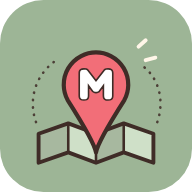
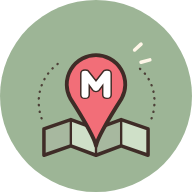
V1.9.14 CIUDADES: lista de ciudades en Ahora, tiempo de caminata creíble, poses sin repetir e ícono redondo
Claude-Session: https://claude.ai/code/session_018s9NCTuMNe4yPyob3aS4qC

diff --git a/index.html b/index.html
@@ -112,7 +112,7 @@
 <script>if(window.__MOPPI_NO_SPLASH__===true){var s=document.getElementById('moppiSplash');if(s)s.remove()}</script>
 <div class="app" id="app">
   <header class="topbar">
-    <div class="brand"><div class="brand-mark" aria-hidden="true"><svg xmlns="http://www.w3.org/2000/svg" viewBox="0 0 512 512" focusable="false"><rect width="512" height="512" rx="116" fill="#9DB596"/><g transform="translate(256 262) scale(.86) translate(-256 -256)"><g><g fill="none" stroke="#3F2C27" stroke-width="8" stroke-linecap="round" stroke-dasharray="1 22" opacity=".85"><path d="M70 330C46 262 66 186 130 140"/><path d="M446 330C470 262 450 186 392 150"/></g><polygon points="78,366 170,334 170,424 78,456" fill="#A7B89F"/><polygon points="170,334 256,366 256,456 170,424" fill="#CFE0C8"/><polygon points="256,366 342,334 342,424 256,456" fill="#A7B89F"/><polygon points="342,334 434,366 434,456 342,424" fill="#CFE0C8"/><polygon points="78,366 170,334 256,366 342,334 434,366 434,456 342,424 256,456 170,424 78,456" fill="none" stroke="#3F2C27" stroke-width="12" stroke-linejoin="round"/><path d="M170 334V424M256 366V456M342 334V424" stroke="#3F2C27" stroke-width="8" stroke-linecap="round" fill="none"/><path d="M168.1 261.6 A100 100 0 1 1 343.9 261.6 Q262 390 256 424 Q250 390 168.1 261.6Z" fill="#F26E78" stroke="#3F2C27" stroke-width="13" stroke-linejoin="round"/><path d="M218.34571428571428 259.0514285714286Q212.56285714285713 259.0514285714286 210.06571428571428 257.34285714285716Q207.56857142857143 255.6342857142857 207.04285714285714 252.87428571428572Q206.51714285714286 250.11428571428573 206.51714285714286 246.96V179.14285714285717Q206.51714285714286 176.25142857142856 207.04285714285714 173.55714285714285Q207.56857142857143 170.86285714285714 210.06571428571428 169.0885714285714Q212.56285714285713 167.31428571428572 218.60857142857142 167.31428571428572Q222.68285714285713 167.31428571428572 224.5885714285714 167.84Q226.4942857142857 168.3657142857143 227.3485714285714 169.15428571428572Q228.20285714285714 169.94285714285715 229.12285714285713 170.99428571428572L255.9342857142857 205.42857142857144L282.6142857142857 171.1257142857143Q283.92857142857144 169.68 285.0457142857143 168.89142857142858Q286.16285714285715 168.10285714285715 288.06857142857143 167.70857142857142Q289.9742857142857 167.31428571428572 293.5228571428571 167.31428571428572Q299.4371428571428 167.31428571428572 301.9342857142857 169.0885714285714Q304.43142857142857 170.86285714285714 304.95714285714286 173.62285714285713Q305.48285714285714 176.38285714285715 305.48285714285714 179.40571428571428V247.22285714285715Q305.48285714285714 250.11428571428573 304.95714285714286 252.87428571428572Q304.43142857142857 255.6342857142857 301.9342857142857 257.34285714285716Q299.4371428571428 259.0514285714286 293.39142857142855 259.0514285714286Q287.47714285714284 259.0514285714286 284.98 257.27714285714285Q282.48285714285714 255.50285714285715 281.95714285714286 252.67714285714288Q281.43142857142857 249.85142857142858 281.43142857142857 246.96V209.6342857142857L266.0542857142857 230.53142857142856L264.47714285714284 232.50285714285715Q263.42571428571426 233.81714285714287 261.4542857142857 234.86857142857144Q259.48285714285714 235.92000000000002 255.9342857142857 235.92000000000002Q252.38571428571427 235.92000000000002 250.3485714285714 234.86857142857144Q248.31142857142856 233.81714285714287 247.26 232.56857142857143Q246.20857142857142 231.32 245.68285714285713 230.53142857142856L230.43714285714285 209.7657142857143V247.22285714285715Q230.43714285714285 250.11428571428573 229.91142857142856 252.87428571428572Q229.38571428571427 255.6342857142857 226.88857142857142 257.34285714285716Q224.39142857142855 259.0514285714286 218.34571428571428 259.0514285714286Z" fill="#fff" stroke="#3F2C27" stroke-width="10" stroke-linejoin="round" paint-order="stroke"/><g stroke="#FFF6E8" stroke-width="12" stroke-linecap="round"><path d="M388 96l22 -20"/><path d="M410 138l30 -8"/></g></g></g></svg></div><div class="brand-copy"><strong id="brandTitle">Moppi</strong><span id="headerContext">Preparando el día</span></div></div>
+    <div class="brand"><div class="brand-mark" aria-hidden="true"><svg xmlns="http://www.w3.org/2000/svg" viewBox="0 0 512 512" focusable="false"><rect width="512" height="512" rx="256" fill="#9DB596"/><g transform="translate(256 258) scale(.78) translate(-256 -256)"><g><g fill="none" stroke="#3F2C27" stroke-width="8" stroke-linecap="round" stroke-dasharray="1 22" opacity=".85"><path d="M70 330C46 262 66 186 130 140"/><path d="M446 330C470 262 450 186 392 150"/></g><polygon points="78,366 170,334 170,424 78,456" fill="#A7B89F"/><polygon points="170,334 256,366 256,456 170,424" fill="#CFE0C8"/><polygon points="256,366 342,334 342,424 256,456" fill="#A7B89F"/><polygon points="342,334 434,366 434,456 342,424" fill="#CFE0C8"/><polygon points="78,366 170,334 256,366 342,334 434,366 434,456 342,424 256,456 170,424 78,456" fill="none" stroke="#3F2C27" stroke-width="12" stroke-linejoin="round"/><path d="M170 334V424M256 366V456M342 334V424" stroke="#3F2C27" stroke-width="8" stroke-linecap="round" fill="none"/><path d="M168.1 261.6 A100 100 0 1 1 343.9 261.6 Q262 390 256 424 Q250 390 168.1 261.6Z" fill="#F26E78" stroke="#3F2C27" stroke-width="13" stroke-linejoin="round"/><path d="M218.34571428571428 259.0514285714286Q212.56285714285713 259.0514285714286 210.06571428571428 257.34285714285716Q207.56857142857143 255.6342857142857 207.04285714285714 252.87428571428572Q206.51714285714286 250.11428571428573 206.51714285714286 246.96V179.14285714285717Q206.51714285714286 176.25142857142856 207.04285714285714 173.55714285714285Q207.56857142857143 170.86285714285714 210.06571428571428 169.0885714285714Q212.56285714285713 167.31428571428572 218.60857142857142 167.31428571428572Q222.68285714285713 167.31428571428572 224.5885714285714 167.84Q226.4942857142857 168.3657142857143 227.3485714285714 169.15428571428572Q228.20285714285714 169.94285714285715 229.12285714285713 170.99428571428572L255.9342857142857 205.42857142857144L282.6142857142857 171.1257142857143Q283.92857142857144 169.68 285.0457142857143 168.89142857142858Q286.16285714285715 168.10285714285715 288.06857142857143 167.70857142857142Q289.9742857142857 167.31428571428572 293.5228571428571 167.31428571428572Q299.4371428571428 167.31428571428572 301.9342857142857 169.0885714285714Q304.43142857142857 170.86285714285714 304.95714285714286 173.62285714285713Q305.48285714285714 176.38285714285715 305.48285714285714 179.40571428571428V247.22285714285715Q305.48285714285714 250.11428571428573 304.95714285714286 252.87428571428572Q304.43142857142857 255.6342857142857 301.9342857142857 257.34285714285716Q299.4371428571428 259.0514285714286 293.39142857142855 259.0514285714286Q287.47714285714284 259.0514285714286 284.98 257.27714285714285Q282.48285714285714 255.50285714285715 281.95714285714286 252.67714285714288Q281.43142857142857 249.85142857142858 281.43142857142857 246.96V209.6342857142857L266.0542857142857 230.53142857142856L264.47714285714284 232.50285714285715Q263.42571428571426 233.81714285714287 261.4542857142857 234.86857142857144Q259.48285714285714 235.92000000000002 255.9342857142857 235.92000000000002Q252.38571428571427 235.92000000000002 250.3485714285714 234.86857142857144Q248.31142857142856 233.81714285714287 247.26 232.56857142857143Q246.20857142857142 231.32 245.68285714285713 230.53142857142856L230.43714285714285 209.7657142857143V247.22285714285715Q230.43714285714285 250.11428571428573 229.91142857142856 252.87428571428572Q229.38571428571427 255.6342857142857 226.88857142857142 257.34285714285716Q224.39142857142855 259.0514285714286 218.34571428571428 259.0514285714286Z" fill="#fff" stroke="#3F2C27" stroke-width="10" stroke-linejoin="round" paint-order="stroke"/><g stroke="#FFF6E8" stroke-width="12" stroke-linecap="round"><path d="M388 96l22 -20"/><path d="M410 138l30 -8"/></g></g></g></svg></div><div class="brand-copy"><strong id="brandTitle">Moppi</strong><span id="headerContext">Preparando el día</span></div></div>
     <button class="round-button" id="quickHome" aria-label="Volver al alojamiento"><svg viewBox="0 0 24 24" fill="none" stroke="currentColor" stroke-width="2"><path d="m3 11 9-8 9 8"/><path d="M5 10v10h14V10M9 20v-6h6v6"/></svg></button>
   </header>
 
@@ -120,6 +120,7 @@
     <div class="embed-notice" id="embedNotice" role="note" hidden><strong>Estás en una vista previa.</strong> Aquí puede que no se guarden tus cambios ni se descarguen copias. Para usar Moppi, descarga el archivo y ábrelo con Chrome desde Descargas.</div>
     <section class="view active" data-view="today" aria-labelledby="todayTitle">
       <div class="hero"><div class="eyebrow" id="todayCountry">Italia · Viaje 2027</div><div class="hero-row"><div><h1 id="todayTitle">Venezia</h1><p class="lede" id="todaySummary">Lo importante de hoy, sin convertir el viaje en una carrera.</p></div><div class="date-tile"><strong id="todayDay">15</strong><span id="todayMonth">sep</span></div></div></div>
+      <div class="city-strip-wrap" id="cityStripWrap" hidden><div class="strip-title">Tu viaje · ciudades</div><div class="day-strip city-strip" id="cityStrip" aria-label="Ciudades del viaje"></div></div>
       <div class="day-strip" id="dayStrip" aria-label="Días de la ciudad"></div>
       <div class="context-strip" id="contextStrip"></div>
       <article class="now-card" id="nowCard"></article>
@@ -358,10 +359,10 @@ const CatalogStore={dbName:'moppi',storeName:'catalogs',
   async all(){return unique([...this.embedded(),...await this.stored()],item=>item.id)},
   async importCatalogs(items){const valid=list(items).filter(item=>this.valid(item));if(!valid.length)throw new ProviderError('INVALID_CATALOG','El archivo no trae horarios oficiales válidos.');let db;try{db=await this.open()}catch{throw new ProviderError('STORAGE','Este navegador no permite guardar horarios oficiales.')}await new Promise((resolve,reject)=>{const tx=db.transaction(this.storeName,'readwrite');for(const item of valid)tx.objectStore(this.storeName).put(JSON.parse(JSON.stringify(item)));tx.oncomplete=resolve;tx.onerror=()=>reject(tx.error);tx.onabort=()=>reject(tx.error||new Error('IDB'))}).catch(()=>{throw new ProviderError('STORAGE','No hubo lugar para guardar los horarios oficiales en este teléfono.')});return{count:valid.length,operators:unique(valid.map(item=>clean(item.operator)||clean(item.label)||'operador'))}}};
 const AppConfig=Object.freeze({
-  version:'V1.9.13_MARCA',get timeZone(){return RuntimeZone.value||deviceTimeZone()},locale:'es-UY',tripStorageKey:'moppi.trips.v1',trip:{departureMarginMinutes:20},serviceDate:'2026-09-13',
+  version:'V1.9.14_CIUDADES',get timeZone(){return RuntimeZone.value||deviceTimeZone()},locale:'es-UY',tripStorageKey:'moppi.trips.v1',trip:{departureMarginMinutes:20},serviceDate:'2026-09-13',
   mapillary:{get clientToken(){return KeyStore.get('mapillary')},searchRadiusMeters:35,maxCorridorMeters:25,maxCurrentMeters:220,maxCurrentNoGeometryMeters:60,limit:60,maxImages:5,minSpacingMeters:10,queryTimeoutMs:9000,imageTimeoutMs:15000},
   tripgo:{get apiKey(){return KeyStore.get('tripgo')},attribution:'Powered by TripGo'},providerDates:{maxFutureDays:28},
-  discovery:{originRadiusKm:.65,destinationRadiusKm:.8,maxOriginStops:30,maxDestinationStops:30,horizonMinutes:120,walkingMetersPerSecond:1.15,walkDetourFactor:1.25,boardingBufferSeconds:35,walkMatrixBatchSize:25,requestTimeoutMs:14000},
+  discovery:{originRadiusKm:.65,destinationRadiusKm:.8,maxOriginStops:30,maxDestinationStops:30,horizonMinutes:120,walkingMetersPerSecond:1.15,implausibleWalkMetersPerSecond:2,implausibleWalkMinMeters:400,walkDetourFactor:1.25,boardingBufferSeconds:35,walkMatrixBatchSize:25,requestTimeoutMs:14000},
   variants:{significantWalkMeters:250,significantFinalWalkMeters:180,significantTimeSeconds:600,maxTradeoffs:3,weights:{doorTime:.40,totalWalk:.30,finalWalk:.24,physicalEffort:.06},verifiedApproachBonus:.18,realGeometryBonus:.04,estimatedWalkPenalty:.06},
   comparison:{durationTieSeconds:30,walkTieMeters:25,finalWalkTieMeters:20,clearRecommendationGap:.05,weights:{doorTime:.42,totalWalk:.27,finalWalk:.15,transfers:.10,physicalEffort:.06}},
   navigationEvidence:{maxCorridorDistanceMeters:85,maxDestinationDistanceMeters:1100},
@@ -1420,7 +1421,7 @@ class GoogleRoutesProvider{
     return output;
   }
   async walk(origin,destination,timingInput,purpose='WALK_COMPARISON'){const timing=timingInput?.at?timingInput:{at:timingInput,mode:'DEPART_AT'},raw=await this.compute(origin,destination,timing,'WALK',{purpose});return list(raw.routes).map((route,index)=>this.normalizeWalk(route,index,origin,destination,timing,purpose))[0]||null}
-  normalizeWalk(route,index,origin,destination,timing,purpose='WALK_COMPARISON'){const duration=seconds(route.duration)||list(route.legs).reduce((sum,leg)=>sum+(seconds(leg.duration)||0),0),distance=finite(route.distanceMeters)||list(route.legs).reduce((sum,leg)=>sum+Number(leg.distanceMeters||0),0),arrival=timing.mode==='ARRIVE_BY'?timing.at:new Date(timing.at.getTime()+duration*1000),departure=timing.mode==='ARRIVE_BY'?new Date(timing.at.getTime()-duration*1000):timing.at,rawSteps=list(route.legs).flatMap(leg=>list(leg.steps)),steps=rawSteps.map((step,i)=>({kind:'WALK',instruction:clean(step.navigationInstruction?.instructions)||`Continuar a pie${i?` · paso ${i+1}`:''}`,durationSeconds:seconds(step.staticDuration)||0,distanceMeters:Number(step.distanceMeters||0),from:{name:i?clean(rawSteps[i-1]?.navigationInstruction?.instructions)||'Trayecto':origin.name,location:coords(step.startLocation?.latLng)},to:{name:i===rawSteps.length-1?destination.name:'Siguiente punto',location:coords(step.endLocation?.latLng)},path:step.polyline?.encodedPolyline||null,geometryStatus:step.polyline?.encodedPolyline?'REAL_WALK_ROUTE':'PROVIDER_STEP_WITHOUT_POLYLINE'}));return{id:`google-walk-${index}`,mode:'WALK',provider:'Google Routes',providerSources:['Google WALK'],purpose,departure:departure.toISOString(),arrival:arrival.toISOString(),metrics:{durationSeconds:duration,walkMeters:distance,initialWalkMeters:distance,finalWalkMeters:0,waitSeconds:0,transfers:0},segments:steps.length?steps:[{kind:'WALK',instruction:`Caminar desde ${origin.name} hasta ${destination.name}`,durationSeconds:duration,distanceMeters:distance,from:{name:origin.name,location:coords(origin.location)},to:{name:destination.name,location:coords(destination.location)},path:route.polyline?.encodedPolyline||null,geometryStatus:route.polyline?.encodedPolyline?'REAL_WALK_ROUTE':'PROVIDER_ROUTE_WITHOUT_POLYLINE'}],polyline:route.polyline?.encodedPolyline||null,geometryStatus:route.polyline?.encodedPolyline||steps.some(step=>step.path)?'REAL_WALK_ROUTE':'PROVIDER_ROUTE_WITHOUT_POLYLINE'}}
+  normalizeWalk(route,index,origin,destination,timing,purpose='WALK_COMPARISON'){const reportedDuration=seconds(route.duration)||list(route.legs).reduce((sum,leg)=>sum+(seconds(leg.duration)||0),0),distance=finite(route.distanceMeters)||list(route.legs).reduce((sum,leg)=>sum+Number(leg.distanceMeters||0),0),implausible=purpose==='WALK_COMPARISON'&&distance>=AppConfig.discovery.implausibleWalkMinMeters&&reportedDuration>0&&distance/reportedDuration>AppConfig.discovery.implausibleWalkMetersPerSecond,duration=implausible?Math.round(distance/AppConfig.discovery.walkingMetersPerSecond):reportedDuration,durationScale=implausible?duration/reportedDuration:1,arrival=timing.mode==='ARRIVE_BY'?timing.at:new Date(timing.at.getTime()+duration*1000),departure=timing.mode==='ARRIVE_BY'?new Date(timing.at.getTime()-duration*1000):timing.at,rawSteps=list(route.legs).flatMap(leg=>list(leg.steps)),steps=rawSteps.map((step,i)=>({kind:'WALK',instruction:clean(step.navigationInstruction?.instructions)||`Continuar a pie${i?` · paso ${i+1}`:''}`,durationSeconds:Math.round((seconds(step.staticDuration)||0)*durationScale),distanceMeters:Number(step.distanceMeters||0),from:{name:i?clean(rawSteps[i-1]?.navigationInstruction?.instructions)||'Trayecto':origin.name,location:coords(step.startLocation?.latLng)},to:{name:i===rawSteps.length-1?destination.name:'Siguiente punto',location:coords(step.endLocation?.latLng)},path:step.polyline?.encodedPolyline||null,geometryStatus:step.polyline?.encodedPolyline?'REAL_WALK_ROUTE':'PROVIDER_STEP_WITHOUT_POLYLINE'}));return{id:`google-walk-${index}`,mode:'WALK',provider:'Google Routes',providerSources:['Google WALK'],purpose,departure:departure.toISOString(),arrival:arrival.toISOString(),metrics:{durationSeconds:duration,walkMeters:distance,initialWalkMeters:distance,finalWalkMeters:0,waitSeconds:0,transfers:0,durationEstimated:implausible,reportedDurationSeconds:reportedDuration},segments:steps.length?steps:[{kind:'WALK',instruction:`Caminar desde ${origin.name} hasta ${destination.name}`,durationSeconds:duration,distanceMeters:distance,from:{name:origin.name,location:coords(origin.location)},to:{name:destination.name,location:coords(destination.location)},path:route.polyline?.encodedPolyline||null,geometryStatus:route.polyline?.encodedPolyline?'REAL_WALK_ROUTE':'PROVIDER_ROUTE_WITHOUT_POLYLINE'}],polyline:route.polyline?.encodedPolyline||null,geometryStatus:route.polyline?.encodedPolyline||steps.some(step=>step.path)?'REAL_WALK_ROUTE':'PROVIDER_ROUTE_WITHOUT_POLYLINE'}}
   async transit(origin,destination,querySpec,preference='DEFAULT',allowDirectFallback=false,includeDirectForEnrichment=false){
     const prefs=preference==='LESS_WALKING'?{routingPreference:'LESS_WALKING'}:{},purpose=allowDirectFallback?`GENERAL_FALLBACK_${preference}`:includeDirectForEnrichment?`TRANSFER_AND_DIRECT_ENRICHMENT_${preference}`:`TRANSFER_GENERATOR_${preference}`,raw=await this.compute(origin,destination,querySpec,'TRANSIT',{purpose,transitPreferences:prefs}),options=list(raw.routes).map((route,index)=>this.normalizeTransit(route,index,querySpec,preference)).filter(Boolean).filter(option=>allowDirectFallback||includeDirectForEnrichment||option.transfers>0);for(const option of options){option.providerSources=[`Google Transit · ${allowDirectFallback?'fallback sin GTFS':option.direct?'validación/enriquecimiento':'transbordos'}${providerReferenceNote(querySpec)}`];option.fallbackWithoutGtfs=allowDirectFallback}return options
   }
@@ -2096,7 +2097,7 @@ function querySpec(mode='DEPART_AT',clock='13:00'){const normalizedMode=['NOW','
 function badgeMarkup(target){return list(target?.badges).length?`<div class="badge-row">${target.badges.map(label=>`<span class="option-badge${label==='RECOMENDADA PARA VOS'?' recommended':''}">${escapeHTML(label)}</span>`).join('')}</div>`:''}
 function effortMarkup(effort){if(list(effort?.knownSignals).length)return`<div class="effort-line"><strong>Esfuerzo físico conocido:</strong> ${effort.knownSignals.map(escapeHTML).join(' · ')}</div>`;return`<div class="effort-line low-confidence"><strong>Esfuerzo físico:</strong> sin señales verificadas de puentes, escaleras o pendiente.</div>`}
 function walkConfidenceMarkup(metrics){return metrics?.walkConfidence&&metrics.walkConfidence!=='MEASURED'?'<div class="effort-line low-confidence"><strong>Caminata aproximada:</strong> la distancia exacta se verifica cuando elegís esta opción.</div>':''}
-function optionCard(option,selected=false){return`<article class="mode-card${selected?' selected':''}"><div class="mode-top"><div><div class="mode-label">Caminar</div><div class="mode-time">${durationLabel(option.metrics.durationSeconds)}</div><div class="mode-sub">Ruta puerta a puerta</div></div><div class="line-badge">A pie</div></div>${badgeMarkup(option)}<div class="metric-grid"><div class="metric"><span>Caminata total</span><strong>${distanceLabel(option.metrics.walkMeters)}</strong></div><div class="metric"><span>Caminata final</span><strong>${distanceLabel(option.metrics.walkMeters)}</strong></div><div class="metric"><span>Espera</span><strong>0 min</strong></div><div class="metric"><span>Transbordos</span><strong>Ninguno</strong></div><div class="metric"><span>Salida</span><strong>${timeLabel(option.departure)}</strong></div><div class="metric"><span>Llegada</span><strong>${timeLabel(option.arrival)}</strong></div></div>${effortMarkup(option.physicalEffort)}${option.recommendationReason?`<p class="recommendation-note">${escapeHTML(option.recommendationReason)}</p>`:''}<p class="provider-note">Cálculo peatonal · ${escapeHTML(option.provider)}</p><button class="card-action" data-choose-mode="WALK">Elegir y navegar</button></article>`}
+function optionCard(option,selected=false){return`<article class="mode-card${selected?' selected':''}"><div class="mode-top"><div><div class="mode-label">Caminar</div><div class="mode-time">${durationLabel(option.metrics.durationSeconds)}</div><div class="mode-sub">${option.metrics.durationEstimated?'Tiempo estimado por la distancia':'Ruta puerta a puerta'}</div></div><div class="line-badge">A pie</div></div>${badgeMarkup(option)}${option.metrics.durationEstimated?'<div class="effort-line low-confidence"><strong>Tiempo estimado:</strong> Google dio un tiempo poco creíble para esta distancia; se calculó con una velocidad normal de caminata.</div>':''}<div class="metric-grid"><div class="metric"><span>Caminata total</span><strong>${distanceLabel(option.metrics.walkMeters)}</strong></div><div class="metric"><span>Caminata final</span><strong>${distanceLabel(option.metrics.walkMeters)}</strong></div><div class="metric"><span>Espera</span><strong>0 min</strong></div><div class="metric"><span>Transbordos</span><strong>Ninguno</strong></div><div class="metric"><span>Salida</span><strong>${timeLabel(option.departure)}</strong></div><div class="metric"><span>Llegada</span><strong>${timeLabel(option.arrival)}</strong></div></div>${effortMarkup(option.physicalEffort)}${option.recommendationReason?`<p class="recommendation-note">${escapeHTML(option.recommendationReason)}</p>`:''}<p class="provider-note">Cálculo peatonal · ${escapeHTML(option.provider)}</p><button class="card-action" data-choose-mode="WALK">Elegir y navegar</button></article>`}
 function variantMarkup(family){if(!family.alternativeVariants?.length)return'';return`<div class="variant-box"><h4>Otras formas de usar esta misma línea</h4>${family.alternativeVariants.map(variant=>`<div class="variant-row"><div><strong>${escapeHTML(variant.boardName)} → ${escapeHTML(variant.alightName)}</strong><span>${escapeHTML(variant.tradeoffReason)} · ${durationLabel(variant.metrics.tripDurationSeconds??variant.metrics.durationSeconds)} · ${distanceLabel(variant.metrics.walkMeters)} a pie</span></div><button data-choose-variant="${escapeHTML(variant.variantId)}" data-family-id="${escapeHTML(family.familyId)}">Elegir</button></div>`).join('')}</div>`}
 function transitCard(family,selected=false){
   const rep=family.representative,arriveBy=rep?.queryMode==='ARRIVE_BY',after=arriveBy?family.schedules.filter(schedule=>new Date(schedule.departure)<new Date(family.departure)).sort((a,b)=>new Date(b.departure)-new Date(a.departure)).slice(0,4):family.schedules.slice(1,5),chip=family.category==='OTHER_DIRECT'?['Otra directa válida','other']:family.category==='WITH_TRANSFER'?['Con transbordo','transfer']:['Mejor opción',''];
@@ -2138,7 +2139,7 @@ class AppShell{
   show(name){document.querySelectorAll('.view').forEach(view=>view.classList.toggle('active',view.dataset.view===name));document.querySelectorAll('[data-nav]').forEach(button=>button.classList.toggle('active',button.dataset.nav===name));window.scrollTo({top:0,behavior:'smooth'});if(name==='settings')this.renderSettings();if(name==='navigate')this.renderNavigation()}
   toast(message){const node=$('toast');node.textContent=message;node.classList.add('show');clearTimeout(this.toastTimer);this.toastTimer=setTimeout(()=>node.classList.remove('show'),3200)}
   renderAll(){this.renderToday();this.renderTrip();this.renderPlaces();this.renderRouteSelectors();this.renderSettings()}
-  renderToday(){this.renderDayStrip();if(!this.data.activeCity?.id){this.renderEmptyToday();return}const {city,day,time,events,live}=this.trip.context(),recommendation=this.trip.recommendation(),date=new Date(`${day.date}T12:00:00`);$('headerContext').textContent=`${city.name} · ${time}`;$('todayCountry').textContent=[city.country,this.data.trip?.title].filter(Boolean).join(' · ');$('brandTitle').textContent=this.data.trip?.title||'Moppi';$('todayTitle').textContent=city.name;$('todaySummary').textContent=day.title;$('todayDay').textContent=String(date.getDate()).padStart(2,'0');$('todayMonth').textContent=new Intl.DateTimeFormat('es',{month:'short'}).format(date).replace('.','');$('contextStrip').innerHTML=[`${day.typeLabel||'Día'} · ${rangeLabel(city.from,city.to)}`,`${this.data.places(city).length} lugares`,`${live?'Hora actual':'Hora lógica'} ${time}`].map((value,index)=>`<span class="context-pill${index===2?' live':''}">${escapeHTML(value)}</span>`).join('');$('nowCard').innerHTML=`<div class="now-time">Lo que conviene ahora</div><h2>${escapeHTML(recommendation.title)}</h2><p>${escapeHTML(recommendation.text)}</p><div class="action-row">${recommendation.action?`<button class="primary-action" data-now-route="${escapeHTML(recommendation.action)}" data-arrive-by="${escapeHTML(recommendation.arriveBy||'')}">Ver cómo llegar</button>`:''}<button class="ghost-action" data-now-explore>Mirar cerca</button></div>`;$('nowCard').querySelector('[data-now-route]')?.addEventListener('click',event=>this.prepareRoute(event.currentTarget.dataset.nowRoute,event.currentTarget.dataset.arriveBy||null));$('nowCard').querySelector('[data-now-explore]')?.addEventListener('click',()=>this.show('explore'));
+  renderToday(){this.renderCityStrip();this.renderDayStrip();if(!this.data.activeCity?.id){this.renderEmptyToday();return}const {city,day,time,events,live}=this.trip.context(),recommendation=this.trip.recommendation(),date=new Date(`${day.date}T12:00:00`);$('headerContext').textContent=`${city.name} · ${time}`;$('todayCountry').textContent=[city.country,this.data.trip?.title].filter(Boolean).join(' · ');$('brandTitle').textContent=this.data.trip?.title||'Moppi';$('todayTitle').textContent=city.name;$('todaySummary').textContent=day.title;$('todayDay').textContent=String(date.getDate()).padStart(2,'0');$('todayMonth').textContent=new Intl.DateTimeFormat('es',{month:'short'}).format(date).replace('.','');$('contextStrip').innerHTML=[`${day.typeLabel||'Día'} · ${rangeLabel(city.from,city.to)}`,`${this.data.places(city).length} lugares`,`${live?'Hora actual':'Hora lógica'} ${time}`].map((value,index)=>`<span class="context-pill${index===2?' live':''}">${escapeHTML(value)}</span>`).join('');$('nowCard').innerHTML=`<div class="now-time">Lo que conviene ahora</div><h2>${escapeHTML(recommendation.title)}</h2><p>${escapeHTML(recommendation.text)}</p><div class="action-row">${recommendation.action?`<button class="primary-action" data-now-route="${escapeHTML(recommendation.action)}" data-arrive-by="${escapeHTML(recommendation.arriveBy||'')}">Ver cómo llegar</button>`:''}<button class="ghost-action" data-now-explore>Mirar cerca</button></div>`;$('nowCard').querySelector('[data-now-route]')?.addEventListener('click',event=>this.prepareRoute(event.currentTarget.dataset.nowRoute,event.currentTarget.dataset.arriveBy||null));$('nowCard').querySelector('[data-now-explore]')?.addEventListener('click',()=>this.show('explore'));
     this.renderNightCard(day,city);
     const nowMinutes=Number(time.slice(0,2))*60+Number(time.slice(3,5)),untimed=list(day.untimed),meta=event=>[this.data.place(event.placeId)?.name||clean(event.address),event.until?`hasta ${event.until}`:''].filter(Boolean).join(' · ');$('todayTimeline').innerHTML=events.length||untimed.length?[...events.map(event=>{const [h,m]=event.time.split(':').map(Number),minutes=h*60+m,klass=minutes<nowMinutes?'done':minutes===Math.min(...events.filter(item=>{const [eh,em]=item.time.split(':').map(Number);return eh*60+em>=nowMinutes}).map(item=>{const [eh,em]=item.time.split(':').map(Number);return eh*60+em}))?'next':'';return`<div class="timeline-item ${klass}"><div class="timeline-time">${escapeHTML(event.time)}</div><div class="timeline-title">${escapeHTML(event.title)}</div><div class="timeline-meta">${escapeHTML(meta(event))}</div></div>`}),...untimed.map(event=>`<div class="timeline-item untimed"><div class="timeline-time">Sin hora</div><div class="timeline-title">${escapeHTML(event.title)}</div><div class="timeline-meta">${escapeHTML(meta(event))}</div></div>`)].join(''):'<div class="timeline-item"><div class="timeline-title">Día libre</div><div class="timeline-meta">La ciudad está cargada como datos; podés buscar una ruta cuando quieras.</div></div>';
     $('quickActions').innerHTML=[{icon:'↗',title:'Cómo llego',text:'Comparar caminar y transporte',go:'route'},{icon:'⌖',title:'Cerca',text:'Lugares y referencias',go:'explore'},{icon:'☷',title:'Viaje',text:'Ciudades, días y agenda',go:'trip'}].map(item=>`<button class="place-card" data-quick="${item.go}"><span class="place-icon">${item.icon}</span><strong>${item.title}</strong><span>${item.text}</span></button>`).join('');$('quickActions').querySelectorAll('[data-quick]').forEach(button=>button.addEventListener('click',()=>this.show(button.dataset.quick)));
@@ -2147,6 +2148,7 @@ class AppShell{
   renderNightCard(day=this.data.selectedDay(),city=this.data.activeCity){const node=$('nightCard');if(!node)return;const night=city?.id?this.data.night(day.date):null;if(!night){node.hidden=true;node.innerHTML='';return}const otherCity=night.cityId&&night.cityId!==city.id?(this.data.city(night.cityId)?.name||''):'',place=this.data.place(night.placeId);let name,detail,action;if(night.source==='booking'){const booking=night.booking;name=booking.title;detail=[otherCity,`${dayMonthLabel(booking.startDate)} → ${dayMonthLabel(booking.endDate)}`,booking.status?BOOKING_STATUS[booking.status]:'',night.double?'noche doble':'',night.placeId?'':'falta marcar la ubicación'].filter(Boolean).join(' · ');action=night.double?['night','Cambiar']:!night.placeId?['locate','Ubicar']:['booking','Ver']}else if(night.source==='city'){name=place?.name||'Alojamiento';detail=[otherCity,'sin reserva cargada'].filter(Boolean).join(' · ');action=['city','Ver']}else{name='Sin alojamiento cargado';detail=night.cityId?(this.data.city(night.cityId)?.name||''):'';action=['add','Agregar']}node.hidden=false;node.classList.toggle('warn',night.source==='none'||night.double||(night.source==='booking'&&!night.placeId));node.innerHTML=`<div class="night-copy"><small>Esta noche duermes en</small><strong>${escapeHTML(name)}</strong><span>${escapeHTML(detail)}</span></div><button class="mini-action" data-night-action="${action[0]}">${action[1]}</button>`;node.querySelector('[data-night-action]')?.addEventListener('click',()=>{const kind=action[0];if(kind==='night')this.editor.open({type:'night',date:day.date});else if(kind==='locate')this.editor.locateBooking(night.bookingId);else if(kind==='booking')this.editor.openBooking(night.bookingId);else if(kind==='city')this.editor.openCity(night.cityId);else this.editor.openBooking(null,{type:'lodging',cityId:night.cityId||city.id,startDate:day.date,endDate:addDays(day.date,1)})})}
   /* Volver al alojamiento: el de esta noche (la mañana de la salida, el de la noche anterior). Si queda en otra ciudad, cambia a esa ciudad. */
   goHome(){const city=this.data.activeCity,day=this.data.selectedDay();if(!city?.id){this.toast('Todavía no hay ciudades cargadas.');return}const night=this.data.lodgingNightFor(day.date,city);if(!night||night.source==='none'){this.toast('No hay alojamiento cargado para esta noche. Agrégalo en Viaje.');return}const place=this.data.place(night.placeId);if(!place){this.toast(`Falta marcar dónde queda ${night.booking?.title||'el alojamiento'}.`);if(night.bookingId)this.editor.openBooking(night.bookingId);return}if(night.cityId&&night.cityId!==city.id){const target=this.data.city(night.cityId);this.data.selectCity(night.cityId);this.data.selectDay(day.date);this.renderAll();this.toast(`Esta noche duermes en ${target?.name||'otra ciudad'}: cambié a esa ciudad.`)}$('destinationSelect').value=place.id;this.show('route')}
+  renderCityStrip(){const wrap=$('cityStripWrap'),node=$('cityStrip');if(!wrap||!node)return;const cities=list(this.data.dataset?.cities),active=this.data.activeCity?.id;wrap.hidden=cities.length<2;if(cities.length<2){node.innerHTML='';return}node.innerHTML=cities.map(city=>`<button type="button" class="day-chip city-chip${city.id===active?' active':''}" data-city-chip="${escapeHTML(city.id)}" aria-pressed="${city.id===active}"><small>${escapeHTML(rangeLabel(city.from,city.to))}</small>${escapeHTML(city.name)}</button>`).join('');node.querySelectorAll('[data-city-chip]').forEach(button=>button.addEventListener('click',()=>{if(button.dataset.cityChip===this.data.activeCity?.id)return;this.data.selectCity(button.dataset.cityChip);this.renderAll()}));const on=node.querySelector('.active');if(on)node.scrollLeft=Math.max(0,on.offsetLeft-12)}
   renderDayStrip(){const node=$('dayStrip');if(!node)return;const days=this.data.days(),current=this.data.selectedDay()?.date;node.hidden=!days.length;node.innerHTML=days.map(day=>`<button class="day-chip${day.date===current?' active':''}" data-day-chip="${escapeHTML(day.date)}"><small>${escapeHTML(day.typeLabel)}</small>${escapeHTML(shortDateLabel(day.date))}</button>`).join('');node.querySelectorAll('[data-day-chip]').forEach(button=>button.addEventListener('click',()=>{this.data.selectDay(button.dataset.dayChip);this.renderToday();this.renderRouteSelectors()}))}
   renderEmptyToday(){$('brandTitle').textContent=this.data.trip?.title||'Moppi';$('headerContext').textContent='Sin ciudades cargadas';$('todayCountry').textContent=this.data.trip?.title||'Moppi';$('todayTitle').textContent=this.data.trip?'Agrega tu primera ciudad':'Crea tu viaje';$('todaySummary').textContent='Las ciudades, el alojamiento y la agenda se cargan desde la pestaña Viaje.';$('todayDay').textContent='—';$('todayMonth').textContent='';$('contextStrip').innerHTML='';$('nowCard').innerHTML='<div class="now-time">Para empezar</div><h2>Carga tu viaje</h2><p>Agrega ciudades con sus fechas, el alojamiento y los lugares que quieres visitar.</p><div class="action-row"><button class="primary-action" data-go-trip>Ir a Viaje</button></div>';$('nowCard').querySelector('[data-go-trip]')?.addEventListener('click',()=>this.show('trip'));$('todayTimeline').innerHTML='<div class="timeline-item"><div class="timeline-title">Sin agenda todavía</div></div>';$('quickActions').innerHTML='';const night=$('nightCard');if(night){night.hidden=true;night.innerHTML=''}}
   prepareRoute(placeId,arriveBy=null){if(!placeId)return;$('destinationSelect').value=placeId;if(arriveBy){const home=this.data.routeOriginNight()?.placeId;if(home&&home!==placeId&&this.data.places().some(place=>place.id===home))$('originSelect').value=home;$('routeTimeMode').value='ARRIVE_BY';$('routeTimeInput').value=arriveBy;this.updateRouteTimeControls()}this.show('route')}
@@ -2552,6 +2554,12 @@ MoppiShare.start(app);
 @media (max-height:560px){.splash-mascot{display:none}}
 @media (prefers-reduced-motion:reduce){.splash-bar span{animation:none;transform:scaleX(1)}#moppiSplash,.splash-mascot{transition:none}}
 </style>
+<style id="citiesV1914">
+.city-strip-wrap{margin:0 0 2px}
+.strip-title{font-size:11px;font-weight:850;letter-spacing:.08em;text-transform:uppercase;color:var(--muted);margin:2px 2px 6px}
+.city-strip{position:relative;padding-bottom:6px}
+.city-chip{min-height:44px}
+</style>
 <style id="skinSalvia">
 /* MOPPI · SKIN «SALVIA LUMINOSA» — capa visual (solo CSS). No cambia datos, lógica ni funciones.
    Todo el color sale de las variables de abajo: otro tema = otro bloque de variables. */
@@ -2738,7 +2746,7 @@ const Mascot={
   /* una pose por pantalla, sin repetir entre pantallas mientras el personaje tenga otra */
   poses(id){const character=DATA.personajes[id];if(!character)return{};const used=new Set(),out={};
     for(const view of ORDER){const slot=DATA.pantallas[view],wanted=(DATA.estados[slot.estado]||[]).filter(tag=>!(slot.evitar||[]).includes(tag));
-      const avoid=slot.evitar||[];let name=pick(character,wanted,used,avoid);if(!name)name=pick(character,wanted,new Set(),avoid);
+      const avoid=slot.evitar||[];let name=pick(character,wanted,used,avoid);if(!name)name=pick(character,['neutro'],used,avoid);if(!name)name=pick(character,wanted,new Set(),avoid);
       if(name){used.add(name);out[view]=name}}
     return out},
   src(id,name){return`mascots/${id}/${id}_${name}.webp`},

diff --git a/sw.js b/sw.js
@@ -3,7 +3,7 @@
    - Íconos y manifiesto: desde la copia guardada.
    - Mascotas (imágenes): se guardan la primera vez que se usan y quedan disponibles sin conexión.
    - Los servicios externos (Google, TripGo, Mapillary) nunca pasan por aquí: siempre van a la red. */
-const VERSION = 'moppi-1.9.13';
+const VERSION = 'moppi-1.9.14';
 const CORE = ['./', './index.html', './manifest.webmanifest', './icons/icon-192.png', './icons/icon-512.png', './icons/maskable-512.png', './icons/apple-touch-icon.png'];
 
 self.addEventListener('install', event => {
